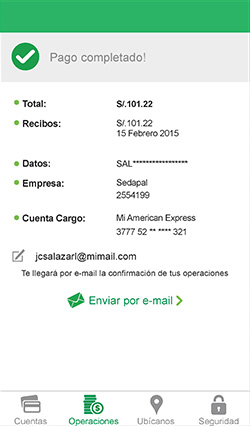
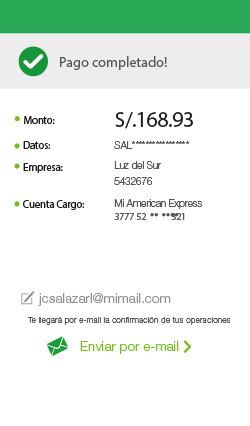
se cambió los pantallazos para el apple y se esta ajustando los botones

diff --git a/js/simulador.js b/js/simulador.js
@@ -4,7 +4,7 @@ var $os = 'apple';
 var path;
 var myGuia;
 var opcPagoFrec = false;
-var alphaBotones = 0.01;
+var alphaBotones = 0.5;
 var tipoDeCuenta;
 
 $(document).ready(function(){
@@ -412,14 +412,26 @@ $(document).ready(function(){
 				 cursor: "pointer",
 				 x: 5, y: 33, scaleX: 246, scaleY: 46, alpha: alphaBotones
 				});
-		prr = new createjs.Bitmap(preload.getResult("btn")).set({
-				 cursor: "pointer",
-				 x: 5, y: 82, scaleX:246, scaleY: 47, alpha: alphaBotones
-				});
-		transfDinero = new createjs.Bitmap(preload.getResult("btn")).set({
-				 cursor: "pointer",
-				 x: 5, y: 134, scaleX:246, scaleY: 47, alpha: alphaBotones
-				});
+
+		if ($os == 'android') {
+			prr = new createjs.Bitmap(preload.getResult("btn")).set({
+					 cursor: "pointer",
+					 x: 5, y: 82, scaleX:246, scaleY: 47, alpha: alphaBotones
+					});
+			transfDinero = new createjs.Bitmap(preload.getResult("btn")).set({
+					 cursor: "pointer",
+					 x: 5, y: 134, scaleX:246, scaleY: 47, alpha: alphaBotones
+					});
+		} else{
+			prr = new createjs.Bitmap(preload.getResult("btn")).set({
+					 cursor: "pointer",
+					 x: 5, y: 88, scaleX:246, scaleY: 47, alpha: alphaBotones
+					});
+			transfDinero = new createjs.Bitmap(preload.getResult("btn")).set({
+					 cursor: "pointer",
+					 x: 5, y: 145, scaleX:246, scaleY: 47, alpha: alphaBotones
+					});
+		};
 
 		
 
@@ -453,14 +465,27 @@ $(document).ready(function(){
 		function OperacionTarjeta () {
 			opt1 = new createjs.Bitmap(preload.getResult("opt1"));
 
-			pt1 = new createjs.Bitmap(preload.getResult("btn")).set({
-			 cursor: "pointer",
-			 x: 1005, y: 56, scaleX:245, scaleY:49, alpha: alphaBotones
-			});
-			pt2 = new createjs.Bitmap(preload.getResult("btn")).set({
-			 cursor: "pointer",
-			 x: 1005, y: 130, scaleX:245, scaleY:49, alpha: alphaBotones
-			});
+			if ($os == 'android') {
+				pt1 = new createjs.Bitmap(preload.getResult("btn")).set({
+				 cursor: "pointer",
+				 x: 1005, y: 56, scaleX:245, scaleY:49, alpha: alphaBotones
+				});
+				pt2 = new createjs.Bitmap(preload.getResult("btn")).set({
+				 cursor: "pointer",
+				 x: 1005, y: 130, scaleX:245, scaleY:49, alpha: alphaBotones
+				});
+			} else{
+				pt1 = new createjs.Bitmap(preload.getResult("btn")).set({
+				 cursor: "pointer",
+				 x: 1005, y: 67, scaleX:245, scaleY:49, alpha: alphaBotones
+				});
+				pt2 = new createjs.Bitmap(preload.getResult("btn")).set({
+				 cursor: "pointer",
+				 x: 1005, y: 153, scaleX:245, scaleY:49, alpha: alphaBotones
+				});
+			};
+
+			
 
 			opt1.x = 1000;
 			conteOperaciones.x = -1000;
@@ -475,14 +500,26 @@ $(document).ready(function(){
 
 		function OperacionTarjeta2 () {
 			opt2 = new createjs.Bitmap(preload.getResult("opt2"));
-			as2 = new createjs.Bitmap(preload.getResult("btn")).set({
-			 cursor: "pointer",
-			 x: 1255, y: 60, scaleX:245, scaleY:40, alpha: alphaBotones
-			});
-			aa2 = new createjs.Bitmap(preload.getResult("btn")).set({
-			 cursor: "pointer",
-			 x: 1255, y: 108, scaleX:245, scaleY:45, alpha: alphaBotones
-			});
+
+			if ($os == 'android') {
+				as2 = new createjs.Bitmap(preload.getResult("btn")).set({
+				 cursor: "pointer",
+				 x: 1255, y: 60, scaleX:245, scaleY:40, alpha: alphaBotones
+				});
+				aa2 = new createjs.Bitmap(preload.getResult("btn")).set({
+				 cursor: "pointer",
+				 x: 1255, y: 108, scaleX:245, scaleY:45, alpha: alphaBotones
+				});
+			} else{
+				as2 = new createjs.Bitmap(preload.getResult("btn")).set({
+				 cursor: "pointer",
+				 x: 1255, y: 73, scaleX:245, scaleY:40, alpha: alphaBotones
+				});
+				aa2 = new createjs.Bitmap(preload.getResult("btn")).set({
+				 cursor: "pointer",
+				 x: 1255, y: 130, scaleX:245, scaleY:45, alpha: alphaBotones
+				});
+			};
 
 
 			opt2.x = 1250;
@@ -499,10 +536,20 @@ $(document).ready(function(){
 
 		function OperacionTarjeta3 () {
 			opt3 = new createjs.Bitmap(preload.getResult("vistaT3"));
-			btnSiguiente2 = new createjs.Bitmap(preload.getResult("btn")).set({
-			 cursor: "pointer",
-			 x: 1520, y: 227, scaleX:210, scaleY:28, alpha: alphaBotones
-			});
+
+
+
+			if ($os == 'android') {
+				btnSiguiente2 = new createjs.Bitmap(preload.getResult("btn")).set({
+				 cursor: "pointer",
+				 x: 1520, y: 227, scaleX:210, scaleY:28, alpha: alphaBotones
+				});
+			} else{
+				btnSiguiente2 = new createjs.Bitmap(preload.getResult("btn")).set({
+				 cursor: "pointer",
+				 x: 1520, y: 320, scaleX:210, scaleY:35, alpha: alphaBotones
+				});
+			};
 
 			opt3.x = 1500;
 			conteOperaciones.x = -1500;
